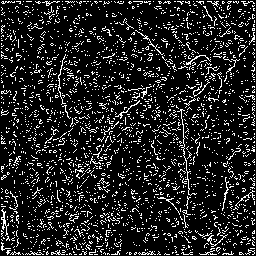
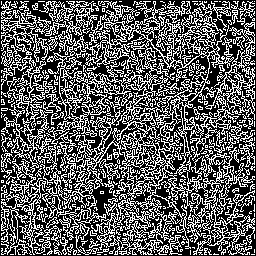
Fix canny and susan

diff --git a/tp1/border_detection.py b/tp1/border_detection.py
@@ -135,68 +135,62 @@ def laplace_gauss(img, sigma=1, threshold=128):
     img = tr.mapValues(result, np.min(result), np.max(result))
     return ops.apply_threshold(img, threshold)
 
-def _canny_detection(img):
-    result = np.zeros(img.shape)
-    angles = np.zeros(img.shape)
-    vertical = ops.apply_mask(img, np.array([[-1, -2, -1], [0, 0, 0], [1, 2, 1]]))
-    horizontal = ops.apply_mask(img, np.array([[-1,0,1], [-2,0,2], [-1,0,1]]))
-    for i in range(0, len(img)):
-        for j in range(0, len(img[0])):
-            for k in range(len(img[0, 0])):
-                v = int(vertical[i, j, k])
-                h = int(horizontal[i, j, k])
-                result[i, j, k] = math.sqrt(math.pow(v, 2) + math.pow(h, 2))
-                angles[i, j, k] = ((math.atan2(v, h) + math.pi / 2) / 2) * 360. / math.pi
-                if angles[i, j, k] < 0:
-                    angles[i, j, k] += math.pi
-                if angles[i, j, k] < 22.5 or angles[i, j, k] > 157.5:
-                    angles[i, j, k] = 0
-                elif angles[i, j, k] < 67.5:
-                    angles[i, j, k] = 45
-                elif angles[i, j, k] < 112.5:
-                    angles[i, j, k] = 90
-                else:
-                    angles[i, j, k] = 135
-    return tr.mapValues(result, np.min(result), np.max(result)), angles
+def _calculate_angle(v, h):
+    if h == 0:
+        angle = 90
+    else:
+        angle = math.atan2(v, h) * 180. / math.pi
+    if angle < 0:
+        angle += 180
+    if angle < 22.5 or angle > 157.5:
+        return 0
+    elif angle < 67.5:
+        return 45
+    elif angle < 112.5:
+        return 90
+    else:
+        return 135
 
-def _non_max_supression(img, angles):
+def _canny_detection(img):
     deltas = {
         0: [(1, 0), (-1, 0)],
-        45: [(1, -1), (-1, 1)],
+        45: [(-1, -1), (1, 1)],
         90: [(0, 1), (0, -1)],
-        135: [(-1, -1), (1, 1)],
+        135: [(1, -1), (-1, 1)],
     }
-    result = np.zeros_like(img)
+    result = np.zeros(img.shape)
+    vertical = ops.apply_mask(img, np.array([[-1, -2, -1], [0, 0, 0], [1, 2, 1]]))
+    horizontal = ops.apply_mask(img, np.array([[-1,0,1], [-2,0,2], [-1,0,1]]))
+    s = sobel(img)
     for i in range(1, len(img)-1):
         for j in range(1, len(img[0])-1):
             for k in range(len(img[0, 0])):
-                if img[i, j, k] != 0:
-                    result[i, j, k] = img[i, j, k]
-                    for delta in deltas[angles[i, j, k]]:
-                        if img[i+delta[0],j+delta[1],k] > img[i,j,k]:
-                            result[i,j,k] = 0
-    return result
+                h = int(vertical[i, j, k])
+                v = int(horizontal[i, j, k])
+                angle = _calculate_angle(v, h)
+                result[i, j, k] = s[i, j, k]
+                for delta in deltas[angle]:
+                    if s[i+delta[0],j+delta[1],k] > s[i,j,k]:
+                        result[i,j,k] = 0
+    return tr.mapValues(result, np.min(result), np.max(result))
 
-
-def canny_detector(img, sig1=1, sig2=3, sig3=10):
-    [g1, a1] = _canny_detection(ops.apply_gauss_filter(img, sig1))
-    g1 = _non_max_supression(g1, a1)
+def canny_detector(img, sig1=1, sig2=3):
+    g1 = _canny_detection(ops.apply_gauss_filter(img, sig1))
     g1 = umb.hiteresis_umbralization(g1)
-    [g2, a2] = _canny_detection(ops.apply_gauss_filter(img, sig2))
-    g2 = _non_max_supression(g2, a2)
-    g2 = umb.hiteresis_umbralization(g2)
-    # [g3, a3] = _canny_detection(ops.apply_gauss_filter(img, sig3))
-    # g3 = _non_max_supression(g3, a3)
-    # g3 = umb.hiteresis_umbralization(g3)
-    result = np.zeros_like(g1)
-    for i in range(0, len(img)):
-        for j in range(0, len(img[0])):
-            for k in range(len(img[0, 0])):
-                if g1[i,j,k] == 255 or g2[i,j,k] == 255:
-                    result[i,j,k] = 255
-                else:
-                    result[i, j, k] = 0
-    return result
+    return g1
+
+    # g2 = _canny_detection(ops.apply_gauss_filter(img, sig2))
+    # g2 = umb.hiteresis_umbralization(g2)
+
+    # result = np.zeros_like(g1)
+    # for i in range(0, len(img)):
+    #     for j in range(0, len(img[0])):
+    #         for k in range(len(img[0, 0])):
+    #             if g1[i,j,k] == 255 and g2[i,j,k] == 255:
+    #                 result[i,j,k] = 255
+    #             else:
+    #                 result[i, j, k] = 0
+    # return result
 
 def susan(img):
     mask = [
@@ -211,7 +205,7 @@ def susan(img):
     t = 27
     rounding_tolerance = .1
     to_border = int((len(mask) - 1) / 2)
-    result = np.zeros_like(img)
+    result = np.copy(img)
     for i in range(to_border, len(img) - to_border):
         for j in range(to_border, len(img[0]) - to_border):
             for k in range(len(img[0, 0])):
@@ -222,10 +216,10 @@ def susan(img):
                             if abs(int(img[i,j,k])-int(img[i+x, j+y, k])) >= t:
                                 similar += 1
                 s = 1 - (similar / 37)
-                # if .5-rounding_tolerance < s < .5+rounding_tolerance:
-                #     result[i, j] = [255, 255, 255]
-                if .75-rounding_tolerance < s < .75+rounding_tolerance:
+                if .5-rounding_tolerance < s < .5+rounding_tolerance:
                     result[i, j] = [0, 255, 0]
+                if .25-rounding_tolerance < s < .25+rounding_tolerance:
+                    result[i, j] = [255, 0, 0]
     return result
 
 def _find_white_points(img):

diff --git a/tp1/umbralization.py b/tp1/umbralization.py
@@ -1,4 +1,5 @@
 import numpy as np
+import queue
 import math
 from tp1 import image_operations as ops
 from basics import transforms as tr
@@ -46,15 +47,18 @@ def otsu_threshold(img):
 
 def otsu(img):
     threshold = otsu_threshold(img)
-    print (threshold)
     return ops.apply_threshold(img, threshold)
 
-def _is_surrounded(img, i, j, k, t):
-    deltas = [ (1, 0), (-1, 0), (0, 1), (0, -1) ]
-    for delta in deltas:
-        if img[i+delta[0], j+delta[1],k] < t:
-            return False
-    return True
+def _set_px(img, i, j, value):
+    for k in range(3):
+        img[i, j, k] = value
+
+def _get_value(img, i, j):
+    if i < 0 or i >= len(img):
+        return -1
+    if j < 0 or j >= len(img[0]):
+        return -1
+    return img[i, j, 0]
 
 def hiteresis_umbralization(img):
     thresh = otsu_threshold(img)
@@ -65,17 +69,26 @@ def hiteresis_umbralization(img):
         t1 = thresh / 2
     if t2 > 255:
         t2 = thresh + (255-thresh)/2
-    result = np.zeros_like(img)
+    print(t1, t2)
+    points = queue.Queue()
     for i in range(1, len(img)-1):
         for j in range(1, len(img[0])-1):
-            for k in range(len(img[0, 0])):
-                if img[i,j,k] > t2:
-                    result[i,j,k] = 255
-                elif img[i,j,k] > t1:
-                    if _is_surrounded(img, i, j, k, t1):
-                        result[i, j, k] = 255
-                    else:
-                        result[i, j, k] = 0
-                else:
-                    result[i,j,k] = 0
-    return result
+            if img[i,j,0] > t2:
+                _set_px(img, i, j, 255)
+                points.put((i, j))
+            elif img[i,j,0] < t1:
+                _set_px(img, i, j, 0)
+    deltas = [(1, 0), (-1, 0), (0, 1), (0, -1), (1, 1), (1, -1), (-1, 1), (-1, -1)]
+    while not points.empty():
+        point = points.get()
+        for delta in deltas:
+            i = point[0] + delta[0]
+            j = point[1] + delta[1]
+            if 0 < _get_value(img, i, j) < 255:
+                _set_px(img, i, j, 255)
+                points.put((i, j))
+    for i in range(0, len(img)):
+        for j in range(0, len(img[0])):
+            if 0 < img[i,j,0] < 255:
+                _set_px(img, i, j, 0)
+    return img
